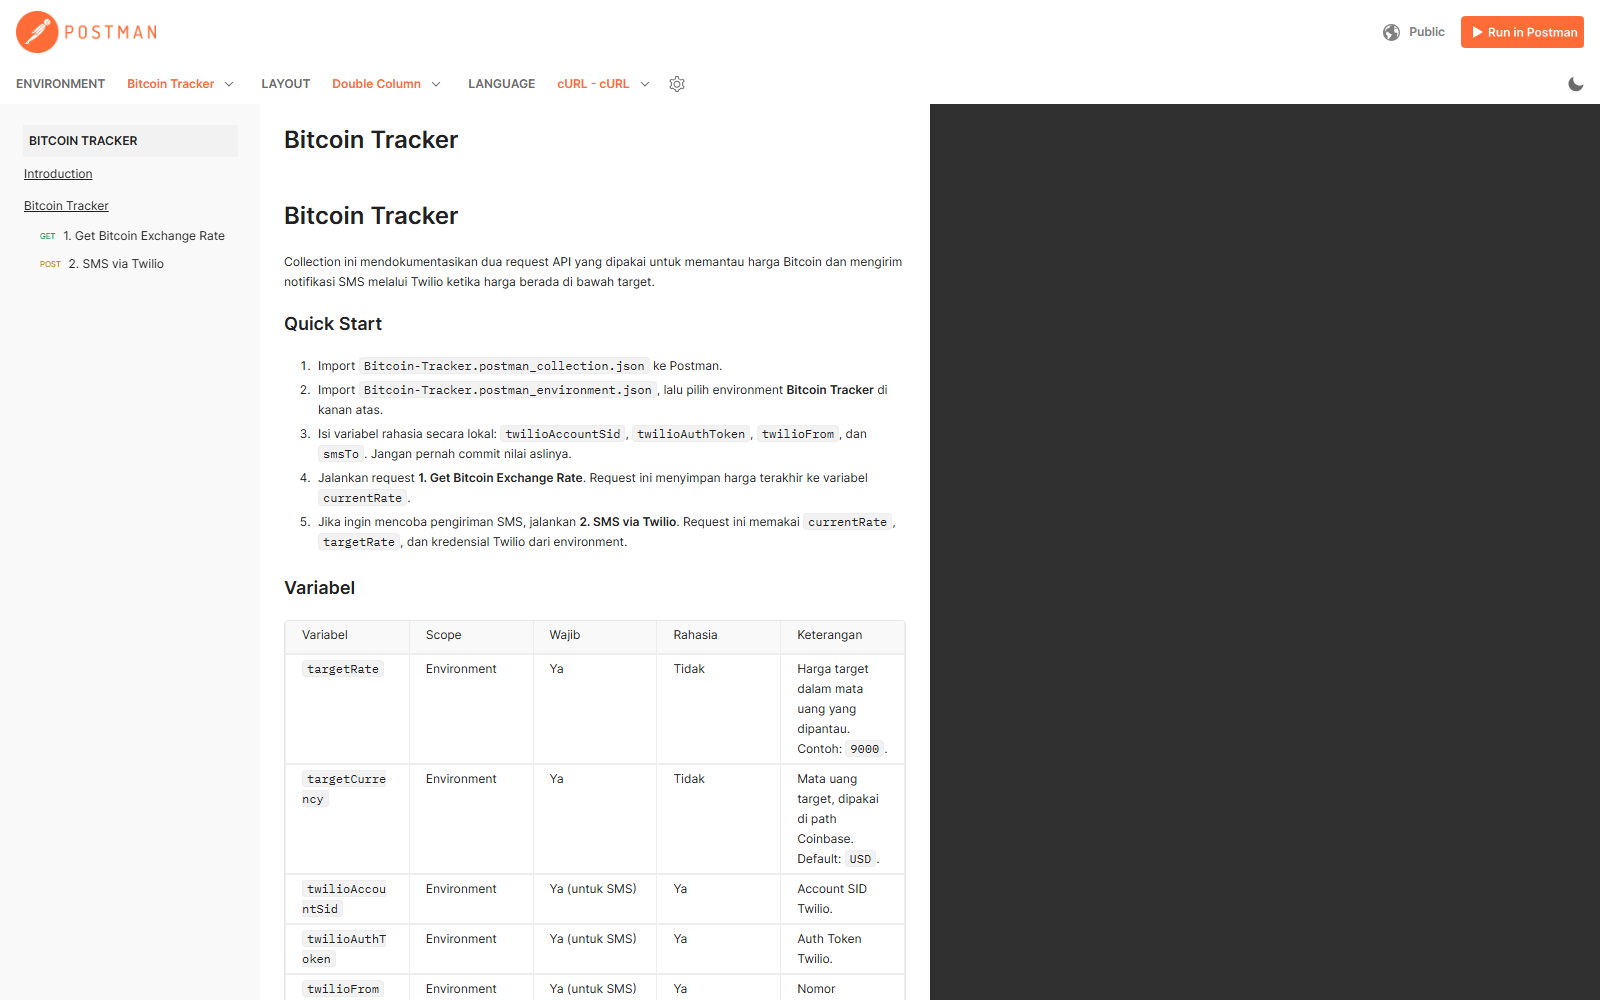
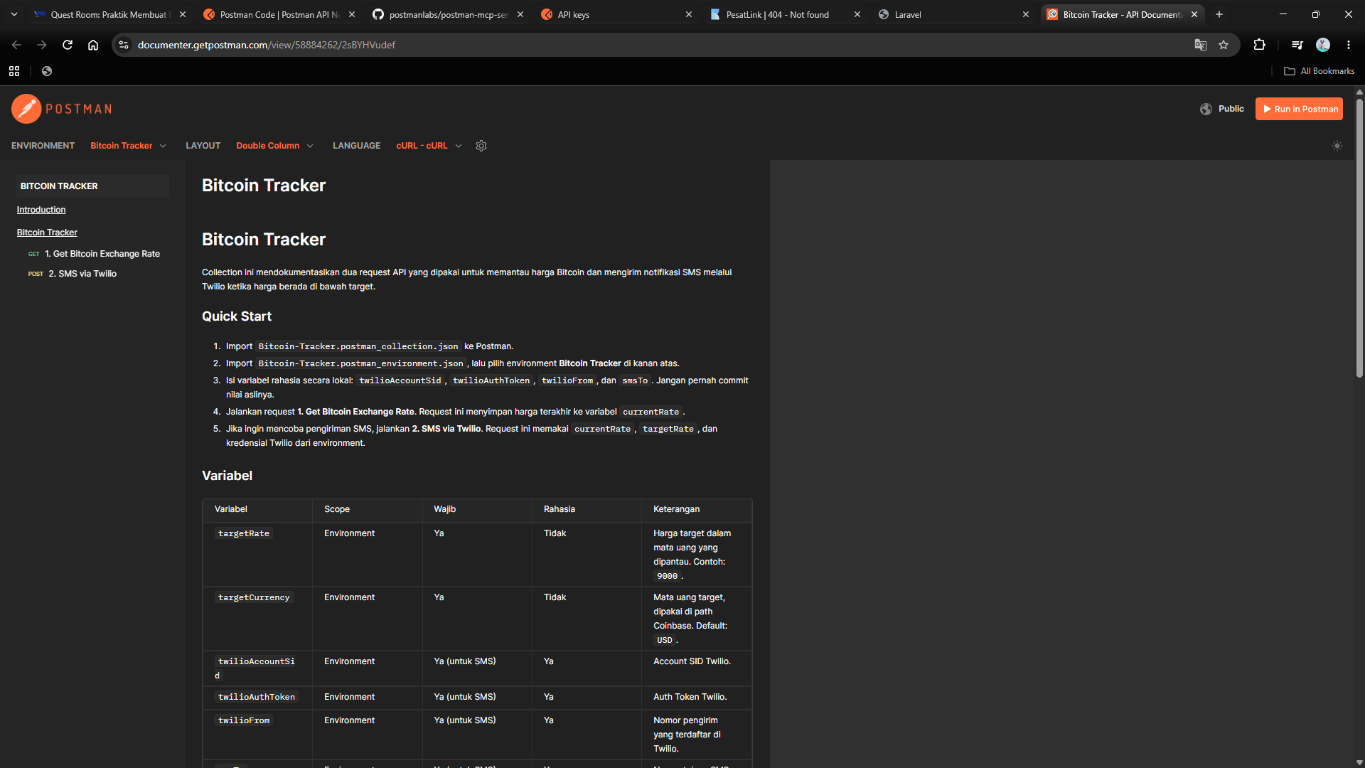
first come3t

diff --git a/postman-api-documentation/screenshots/README.md b/postman-api-documentation/screenshots/README.md
@@ -1,6 +1,6 @@
 # Panduan Screenshot
 
-Folder ini disediakan untuk bukti praktik. Screenshot **belum** tersedia dan harus diambil langsung dari aplikasi Postman. Jangan membuat screenshot palsu atau hasil edit.
+Folder ini menyimpan screenshot bukti praktik yang sudah tersedia dan screenshot tambahan yang bisa diambil langsung dari aplikasi Postman. Jangan membuat screenshot palsu atau hasil edit.
 
 ## Daftar Screenshot yang Disarankan
 
@@ -8,7 +8,8 @@ Folder ini disediakan untuk bukti praktik. Screenshot **belum** tersedia dan har
 | --- | --- | --- |
 | `request-200-ok.png` | Request **Get Bitcoin Exchange Rate** setelah **Send**, menampilkan status `200 OK`, body JSON harga BTC, dan panel variabel environment. | Wajib. |
 | `collection-overview.png` | Overview collection **Bitcoin Tracker** dengan badge **Docs published** dan daftar dua request beserta contoh respons. | Wajib. |
-| `public-docs.png` | Halaman dokumentasi publik di `https://documenter.getpostman.com/view/58884262/2sBYHVudef`. | Opsional (pelengkap). |
+| `public-docs.png` | Halaman dokumentasi publik di `https://documenter.getpostman.com/view/58884262/2sBYHVudef`. | Tersedia. |
+| `twilio-404-not-found.png` | Request SMS Twilio yang mengembalikan `404 Not Found`; ini bukti kendala, bukan pengiriman yang berhasil. | Tersedia. |
 | `environment.png` | Halaman **Environments > Bitcoin Tracker** yang menampilkan `targetRate` dan `targetCurrency`. Kosongkan nilai Twilio. | Opsional (pelengkap). |
 
 ## Aturan Keamanan

diff --git a/README.md b/README.md
@@ -158,11 +158,17 @@ postman spec lint "postman\openapi.yaml" --issueType syntax
 
 ## Screenshot Bukti Praktik
 
-Screenshot dokumentasi publik yang sudah tersedia:
+### Dokumentasi publik Postman
 
 ![Dokumentasi publik Bitcoin Tracker di Postman](postman-api-documentation/screenshots/public-docs.png)
 
-Screenshot request berhasil dan overview collection belum disimpan di repository, jadi belum ditampilkan di sini. Ikuti [panduan screenshot](postman-api-documentation/screenshots/README.md) untuk menambahkannya.
+### Request Twilio — 404 Not Found
+
+![Request Twilio mengembalikan 404 Not Found](postman-api-documentation/screenshots/twilio-404-not-found.png)
+
+Screenshot ini menunjukkan request Twilio gagal dengan status **404 Not Found**, bukan bukti SMS berhasil terkirim. Periksa Account SID dan URL request sebelum mencoba lagi.
+
+Panduan screenshot lainnya ada di [folder screenshots](postman-api-documentation/screenshots/README.md).
 
 ## Keamanan
 
